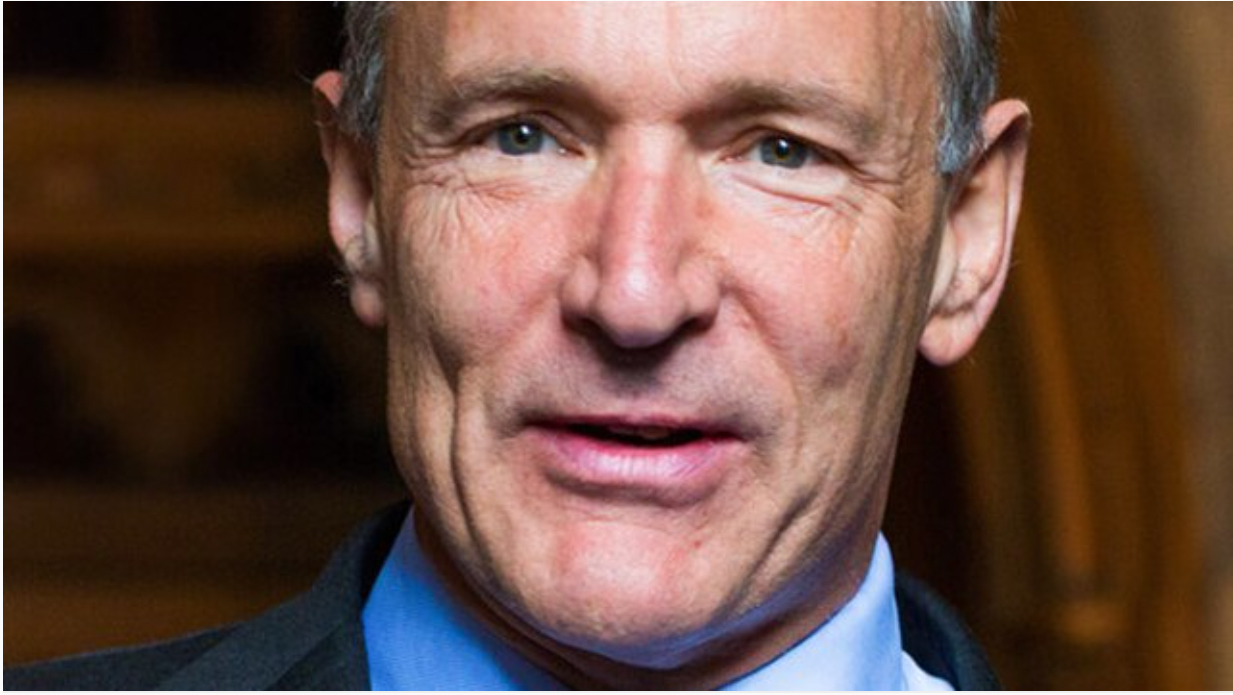
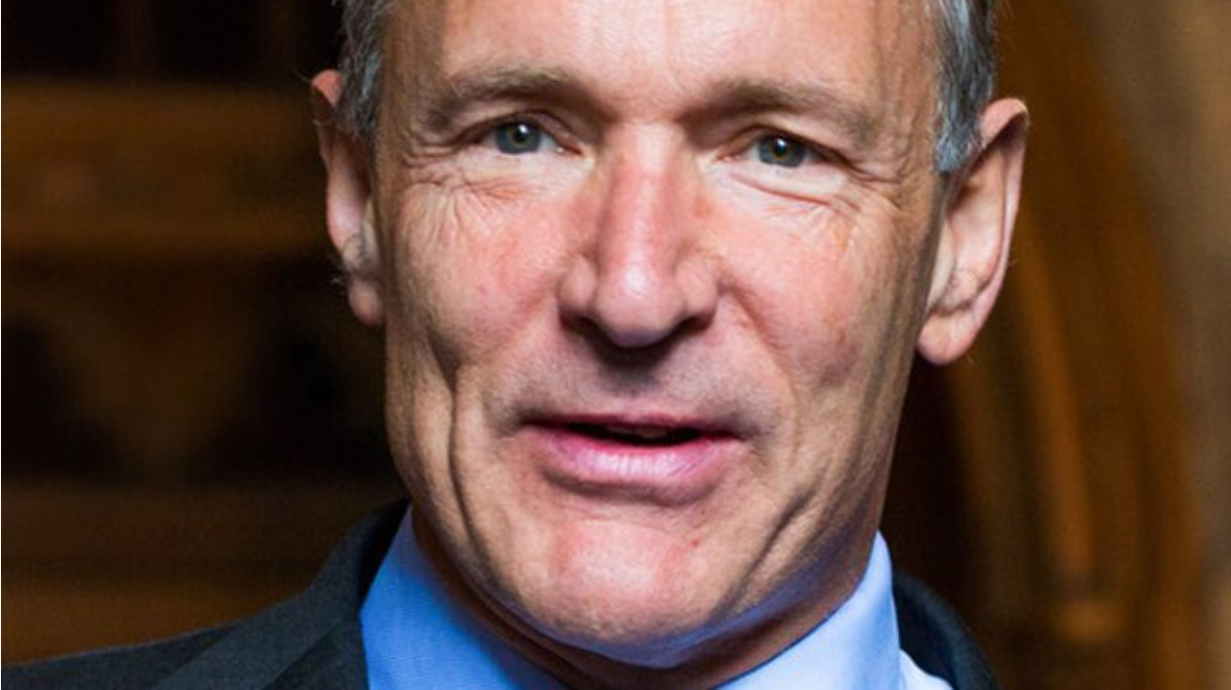
popravak

diff --git a/Homework/index.html b/Homework/index.html
@@ -84,12 +84,17 @@
 	
 	&lt!DOCTYPE html&gt
 	&lthtml lang="hr"&gt
+
 	&lthead&gt
 	&lttitle&gtNaslov&lt/title&gt
 	&lt/head&gt
+
 	&ltbody&gt
+
 	&ltp&gtPozdrav svijete&lt/p&gt
+	
 	&lt/body&gt
+
 	&lt/html&gt
 	</pre>
 						</code>
@@ -115,6 +120,7 @@
 			</section>
 
 			<section id="Phylosophy">
+				<h3>Fiozofija Web-a</h3>
 				<article>
 					<p>
 						Snaga Weba je u njegovoj univerzalnosti. Pristup svima, bez obzira na
